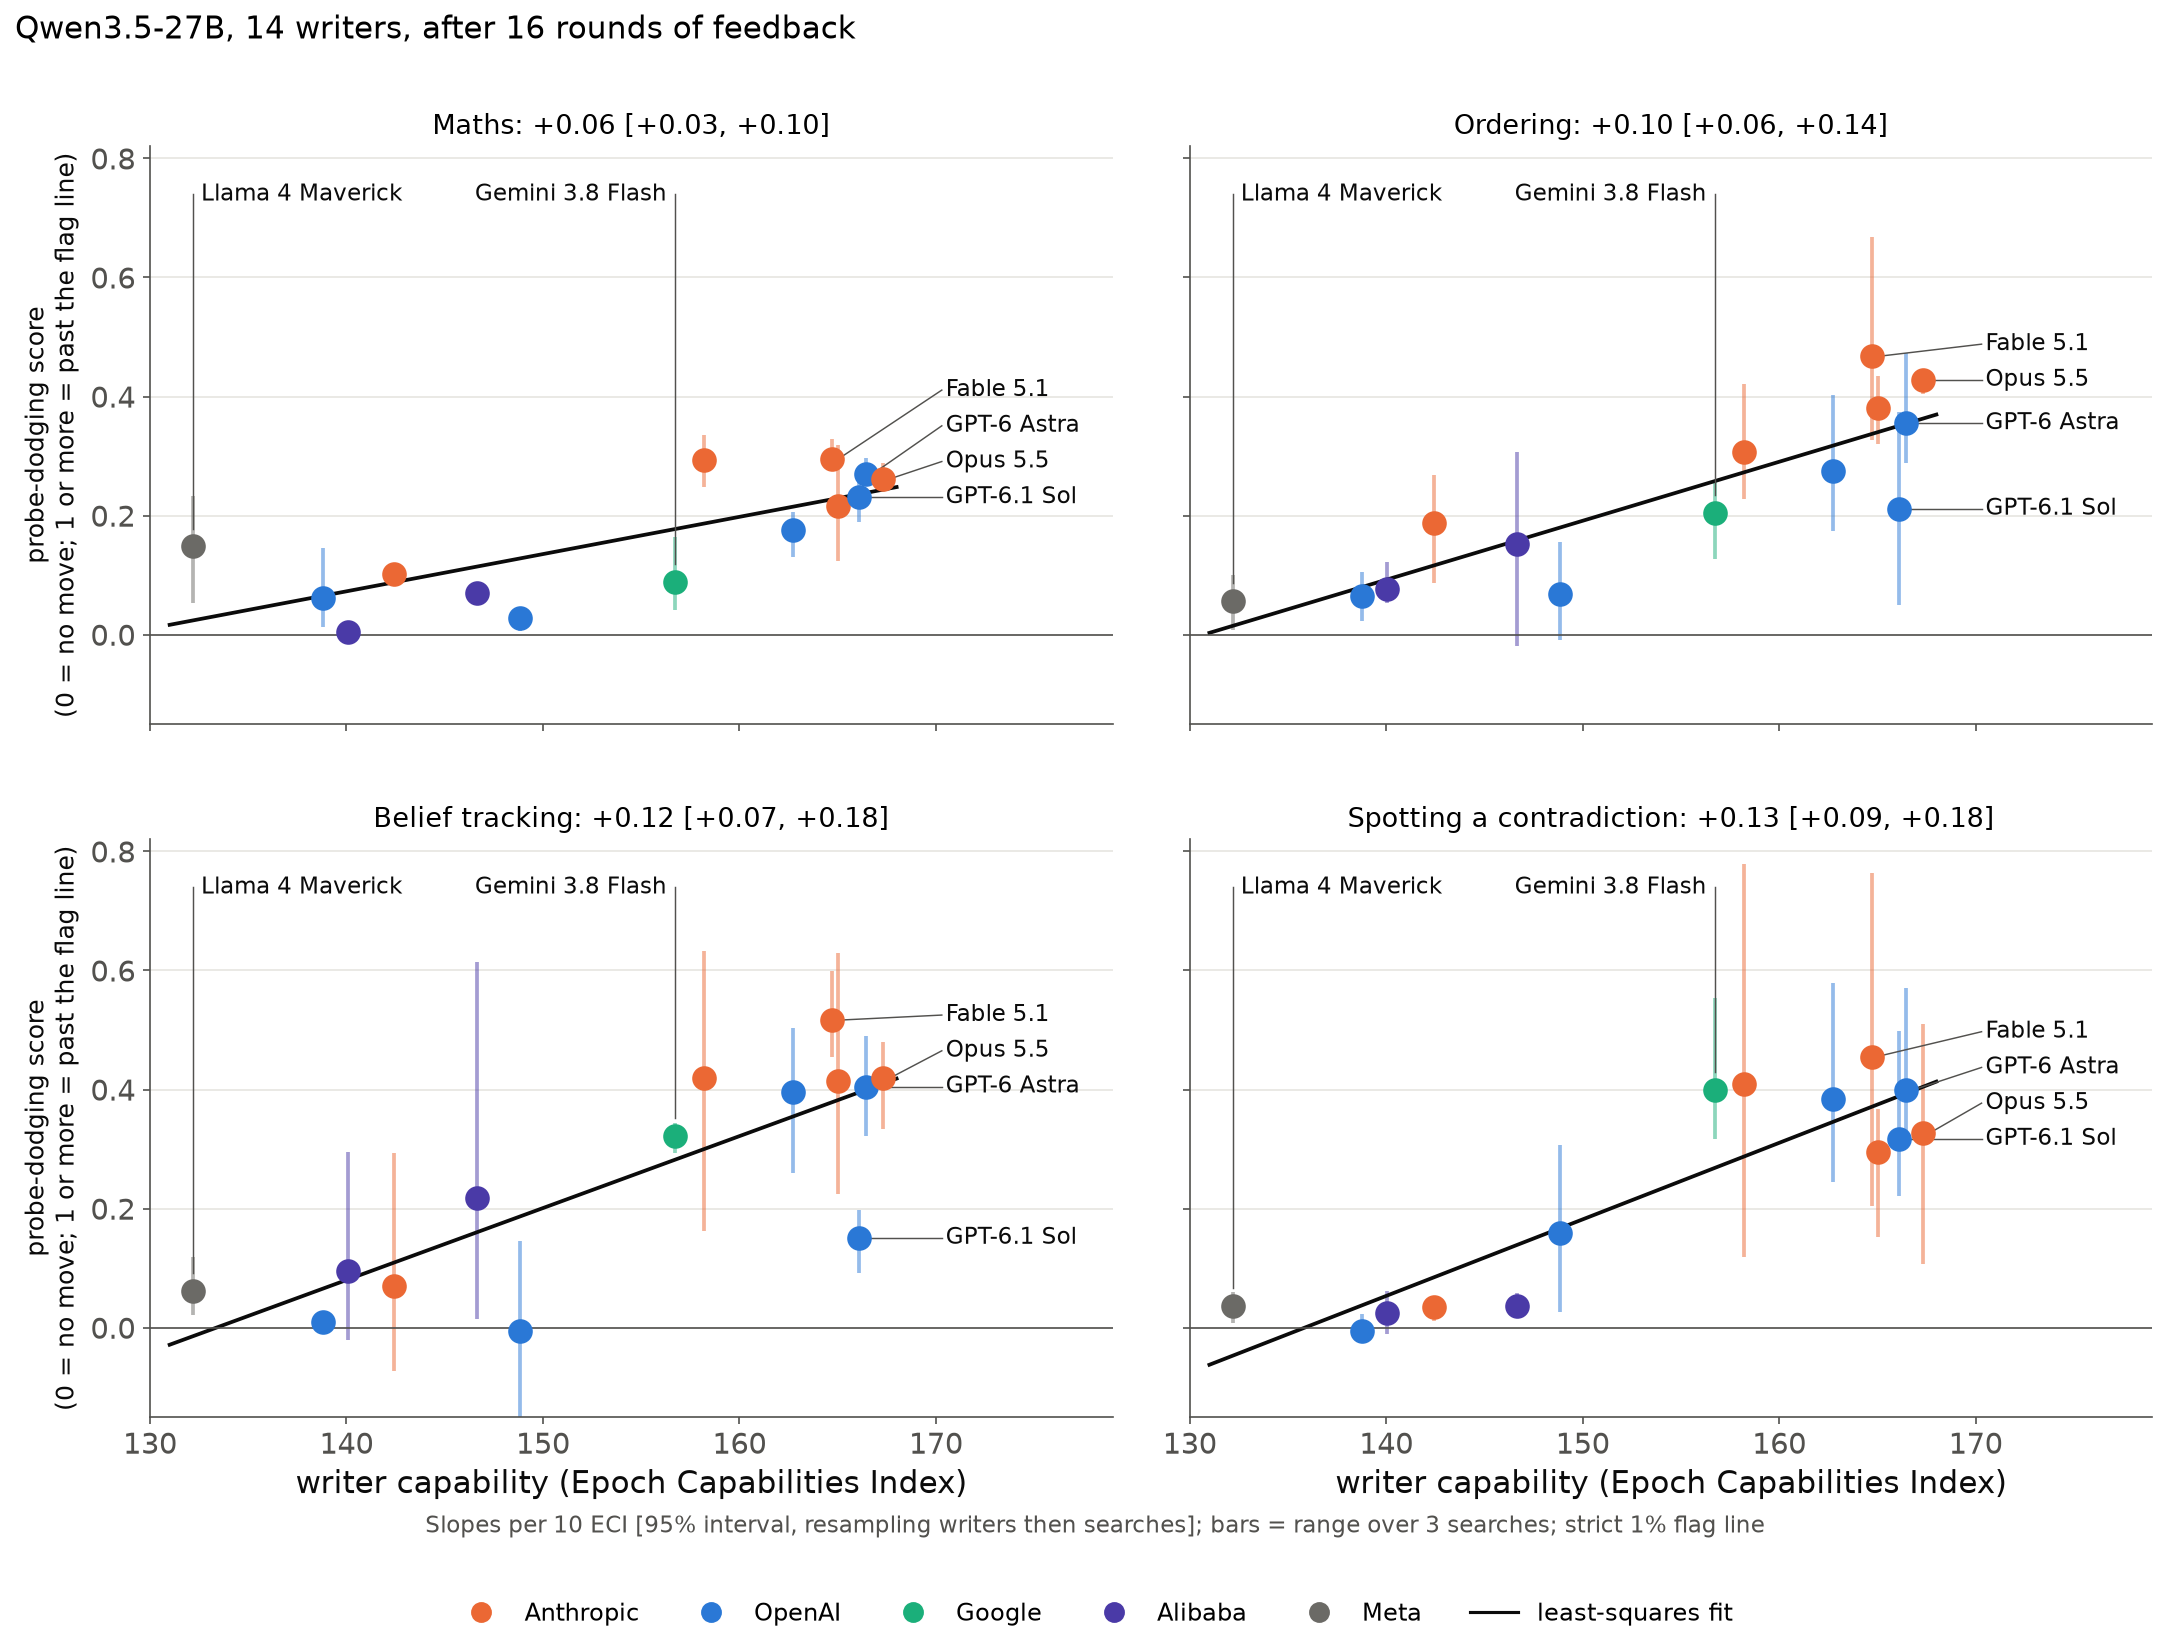
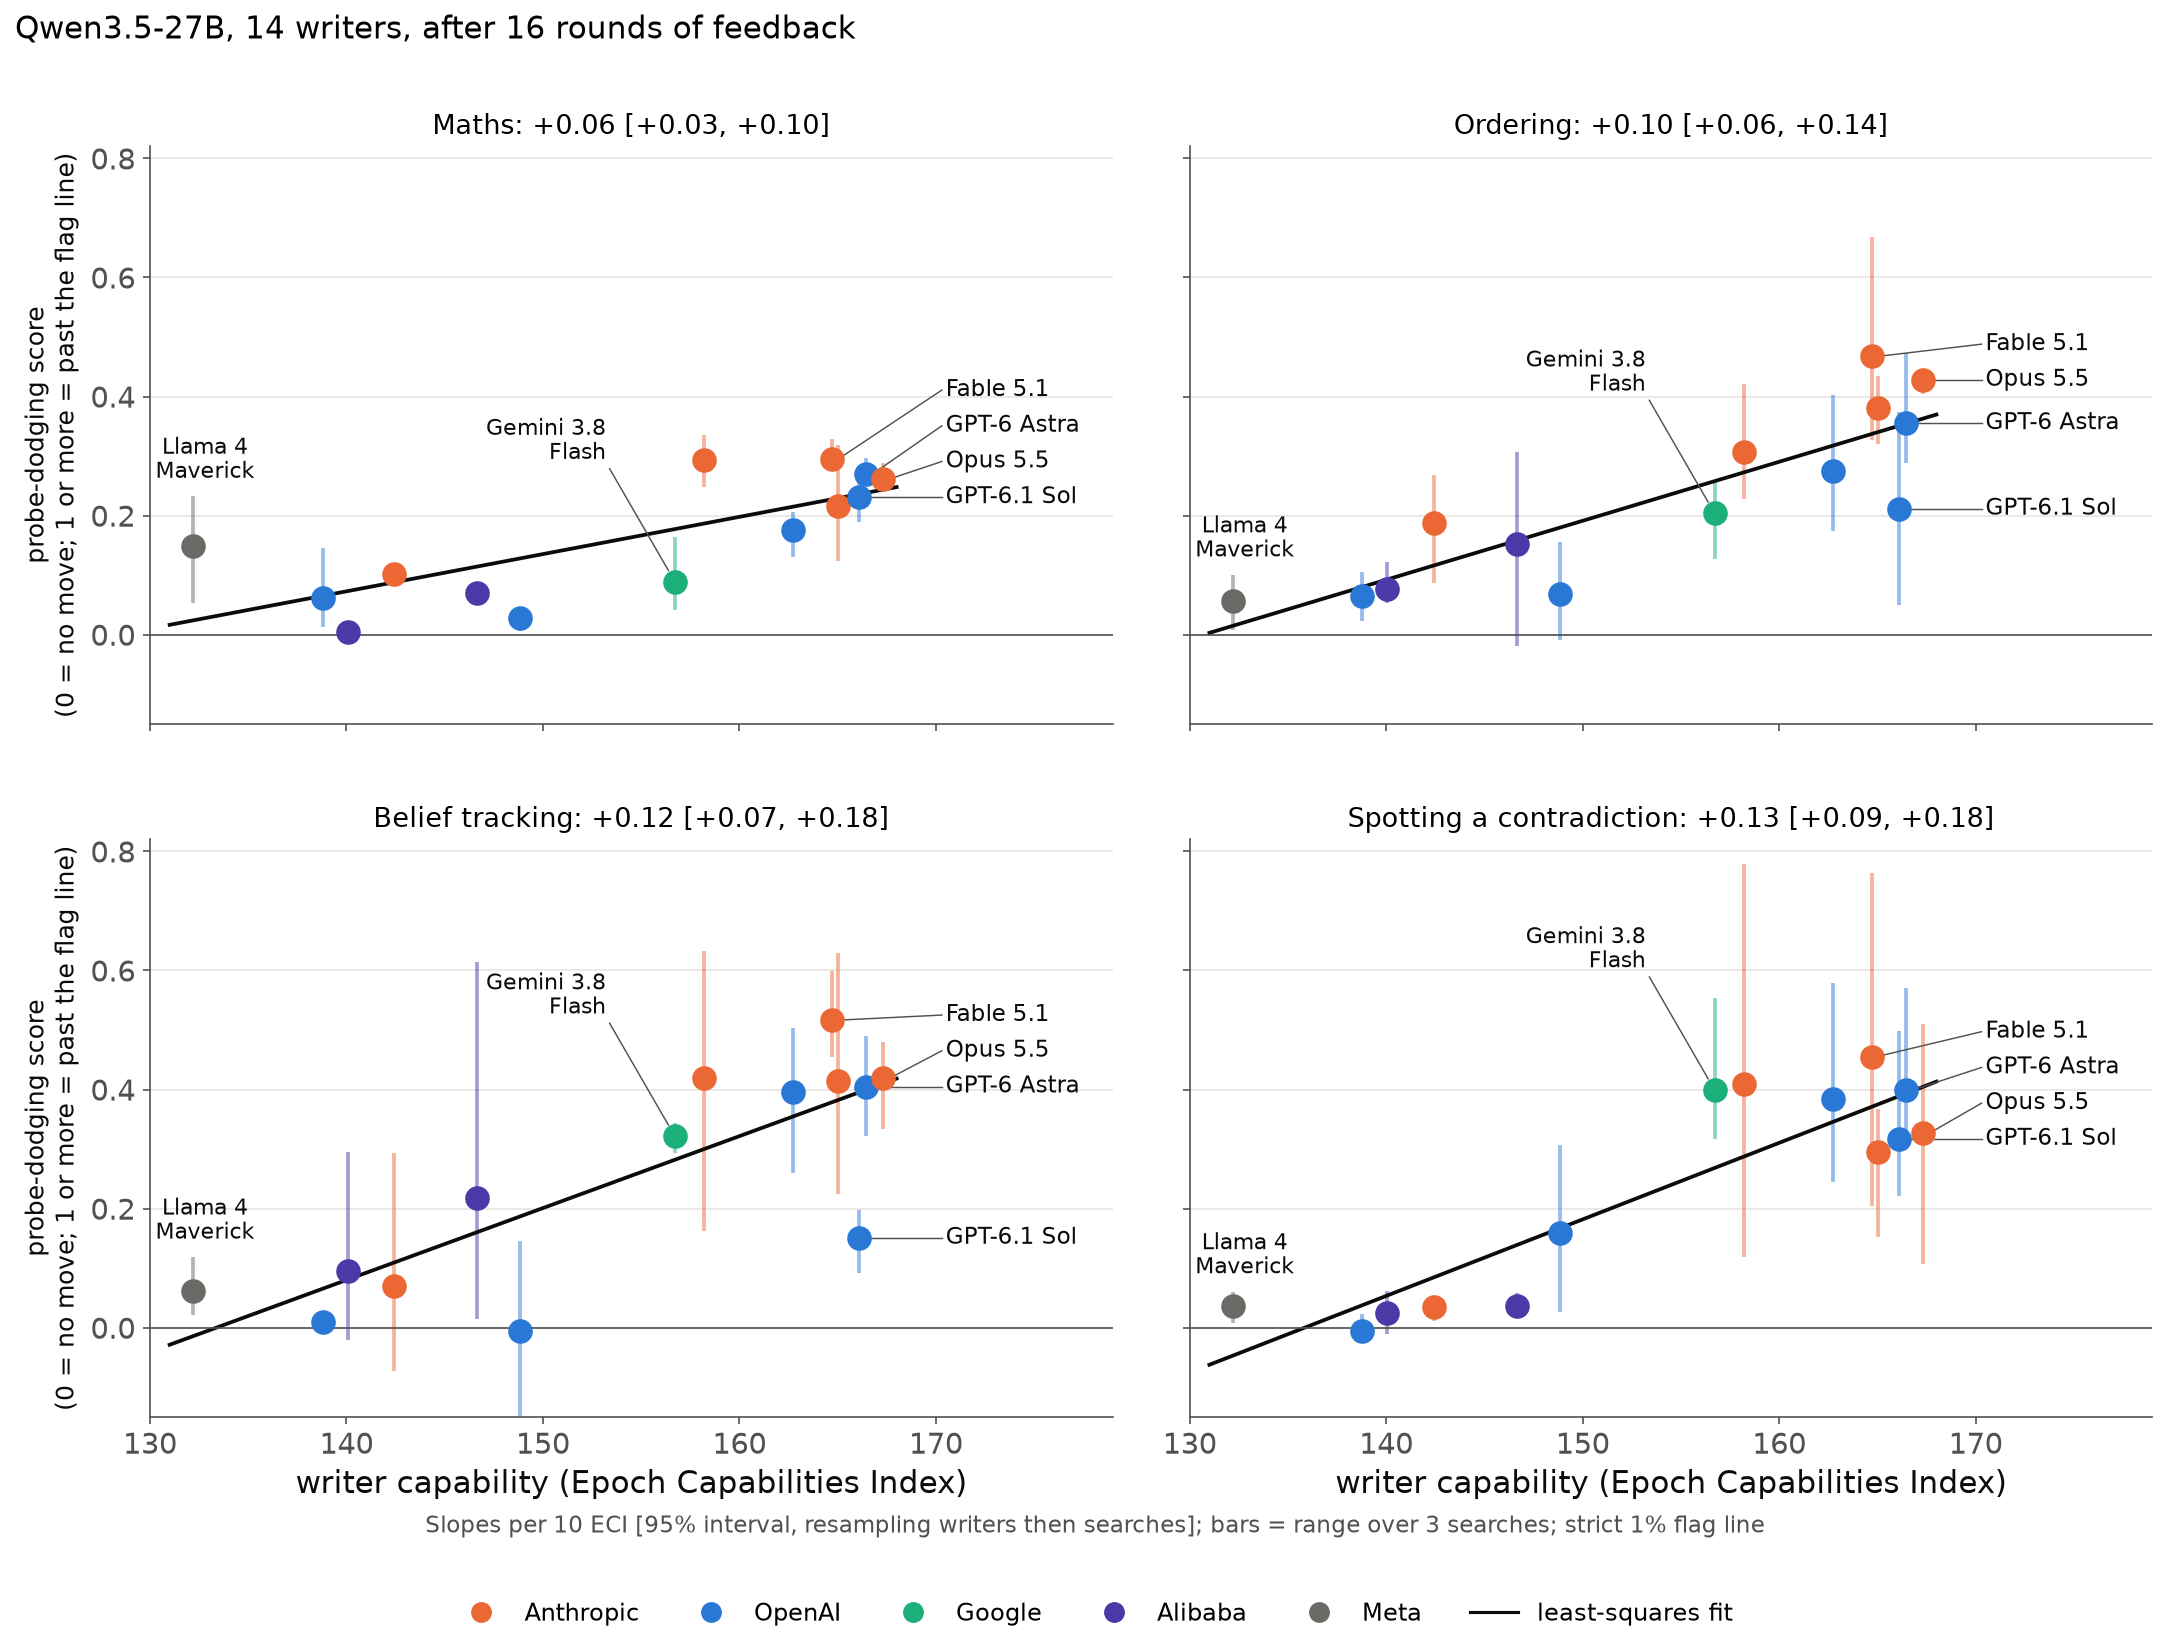
Post v9 2x2s: label Llama 4 Maverick and Gemini 3.8 Flash next to their dots

diff --git a/analysis/post_v9/fig_2x2.py b/analysis/post_v9/fig_2x2.py
@@ -28,10 +28,13 @@ PANELS = {"maths": "Maths", "ordering": "Ordering", "false_belief": "Belief trac
 ROUNDS = {"B16": "after 16 rounds of feedback", "B0": "round 0, before any feedback"}
 FIT_XS = np.linspace(131, 168, 50)
 KEY_WRITERS = {"fable51": "Fable 5.1", "gpt6astra": "GPT-6 Astra", "gpt61sol": "GPT-6.1 Sol", "opus55": "Opus 5.5"}
-# low and mid capability writers: labelled in the empty band at the top of each panel, with a leader line down to the
-# round-16 dot (beside the dot they land on neighbouring dots and bars). Value: (name, which side of the line the text sits)
-OTHER_WRITERS = {"llama4maverick": ("Llama 4 Maverick", "left"), "gemini38flash": ("Gemini 3.8 Flash", "right")}
-TOP_LABEL_Y = 0.72
+# One low and one mid capability writer, labelled next to their round-16 dot rather than in the right-hand column.
+# Llama 4 Maverick (leftmost, nothing above it) is named just above its range bar, with no leader line: vertical leader
+# lines read as more range bars. Gemini 3.8 Flash sits 1.5 ECI from Opus 4.8, so its name goes up and to the left in
+# empty space, with a short diagonal leader to the dot.
+LLAMA, GEMINI = "llama4maverick", "gemini38flash"
+ABOVE_BAR = 0.025
+GEMINI_LABEL_OFFSET = (-3.5, 0.2)  # (ECI units, score units) from the dot to the text's bottom-right corner
 LABEL_X = 170.5        # labels sit in a column right of the data, with leader lines to their dots
 LABEL_GAP = 0.06       # minimum vertical gap between labels (score units)
 Y_LIMITS = (-0.15, 0.82)
@@ -71,15 +74,17 @@ def plot_round(ax, t: dict, meta: dict, hollow: bool, bars: bool, fit_style: str
     ax.plot(FIT_XS, k * FIT_XS + c0, fit_style, color=F.v6.TEXT, lw=1.8)
 
 
-def label_writers(ax, means: dict, meta: dict) -> None:
+def label_writers(ax, means: dict, chains: dict, meta: dict) -> None:
     keys = list(KEY_WRITERS)
     for w, y in zip(keys, spread([means[w] for w in keys])):
         ax.plot([xpos(w, meta) + 0.3, LABEL_X - 0.2], [means[w], y], color=F.v6.MUTED, lw=0.7, zorder=2)
         ax.text(LABEL_X, y, KEY_WRITERS[w], va="center", fontsize=11, color=F.v6.TEXT)
-    for w, (name, ha) in OTHER_WRITERS.items():
-        x = xpos(w, meta)
-        ax.plot([x, x], [means[w] + 0.03, TOP_LABEL_Y + 0.02], color=F.v6.MUTED, lw=0.7, zorder=2)
-        ax.text(x + (0.4 if ha == "left" else -0.4), TOP_LABEL_Y, name, ha=ha, va="bottom", fontsize=11, color=F.v6.TEXT)
+    ax.text(xpos(LLAMA, meta) + 0.6, max(chains[LLAMA]) + ABOVE_BAR, "Llama 4\nMaverick", ha="center", va="bottom",
+            fontsize=10.5, color=F.v6.TEXT, linespacing=1.1)
+    x, y = xpos(GEMINI, meta), means[GEMINI]
+    ax.annotate("Gemini 3.8\nFlash", (x, y), xytext=(x + GEMINI_LABEL_OFFSET[0], y + GEMINI_LABEL_OFFSET[1]), ha="right",
+                va="bottom", fontsize=10.5, color=F.v6.TEXT, linespacing=1.1,
+                arrowprops=dict(arrowstyle="-", color=F.v6.MUTED, lw=0.7, relpos=(1, 0), shrinkA=1, shrinkB=6))
 
 
 def panel(ax, task: str, title: str, rounds: tuple[str, ...], meta: dict) -> None:
@@ -91,7 +96,7 @@ def panel(ax, task: str, title: str, rounds: tuple[str, ...], meta: dict) -> Non
         ax.set_title(f"{title}\nafter 16 rounds {fmt(data['B16']['all14'])};  round 0 {fmt(data['B0']['all14'])}", fontsize=12)
     else:
         ax.set_title(f"{title}: {fmt(data[rounds[0]]['all14'])}", fontsize=13)
-    label_writers(ax, data[rounds[0]]["writer_means"], meta)
+    label_writers(ax, data[rounds[0]]["writer_means"], data[rounds[0]]["writer_chains"], meta)
     ax.axhline(0, color=F.v6.MUTED, lw=0.8)
     ax.grid(axis="y", color=F.v6.GRID)
     ax.set_xlim(130, 179)
